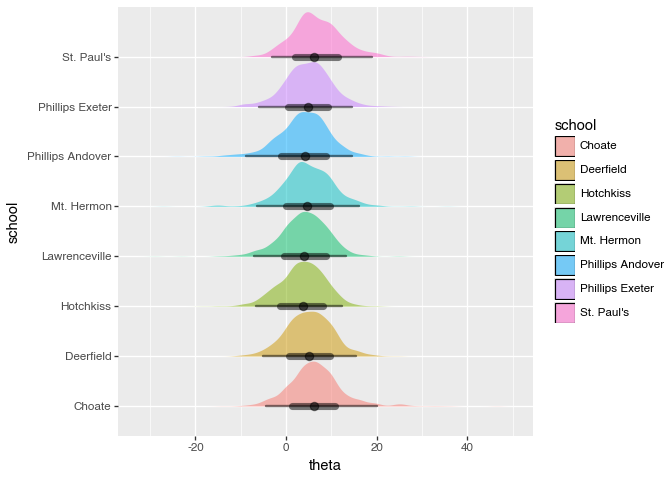
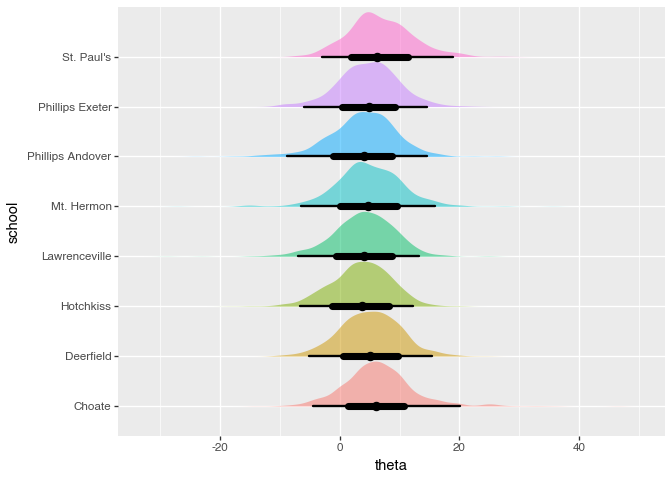
update notebooks

diff --git a/notebook.md b/notebook.md
@@ -139,13 +139,15 @@ bt.median_qi(draws, "mu", width=[0.66, 0.95])
 ## Half-eye plots
 
 The flagship visualization — density slab + point + intervals, directly
-from raw draws.
+from raw draws. Color and other aesthetics can be mapped to the
+visualization with the grammar of graphics and the tidy data framework.
 
 ``` python
 (
     ggplot(draws, aes(x="theta", y="school", fill="school"))
     + bt.stat_halfeye(alpha=0.5)
     + labs(x="theta", y="school")
+    + theme(legend_position='none')
 )
 ```
 
